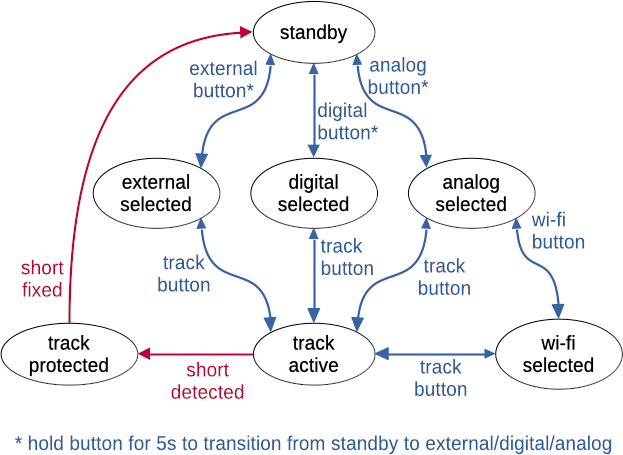
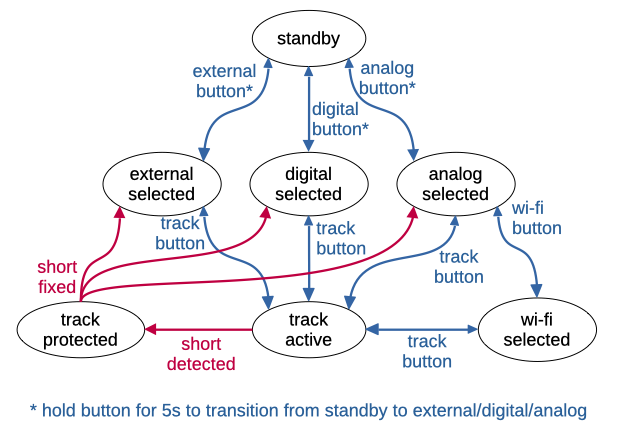
fixed transitions from track_protected

diff --git a/README.md b/README.md
@@ -8,7 +8,8 @@ Código para um painel de controle de fontes para a SBF, Associação Brasileira
 
 <img src="panel-states.png" width="400"/>
 
-Nota: Além dos controles visíveis, o painel tem um jumper interno de manutenção que precisa estar conectado a GND para habilitar o painel.
+Nota: Além dos controles visíveis,
+o painel tem um jumper interno de manutenção que precisa estar conectado a GND para habilitar o painel.
 Quando este jumper é desconectado, todos os leds e relés são desligados
 e os botões não têm efeito.
 
@@ -55,17 +56,17 @@ e os botões não têm efeito.
   * para `analog_selected` ao pressionar `wifi_button`;
   * para `track_active` ao pressionar `track_button`;
 
-### `track_active`
+#### `track_active`
 
 * `track_led` ligado;
 * led e relé da fonte selecionada ligados (dois leds no caso de `wifi_selected`), demais desligados;
 * transições:
-  * **parada de emergência**: transição para modo `_selected` anterior ao pressioar `track_button`;
+  * **parada de emergência**: transição para modo `*_selected` anterior ao pressioar `track_button`;
   * **curto circuito**: transição para `track_protected` se o pino `sort_detected` mudar para LOW (?);
 
-### `track_protected`
+#### `track_protected`
 
 * `track_led` piscando;
 * led da fonte selecionada ligado (dois leds no caso de `wifi_selected`), demais desligados;
 * todos os relés desligados;
-* transição para `standby` se o pino `sort_detected` mudar para HIGH (?);
+* transição para modo `*_selected` anterior se o pino `sort_detected` mudar para HIGH (?);
